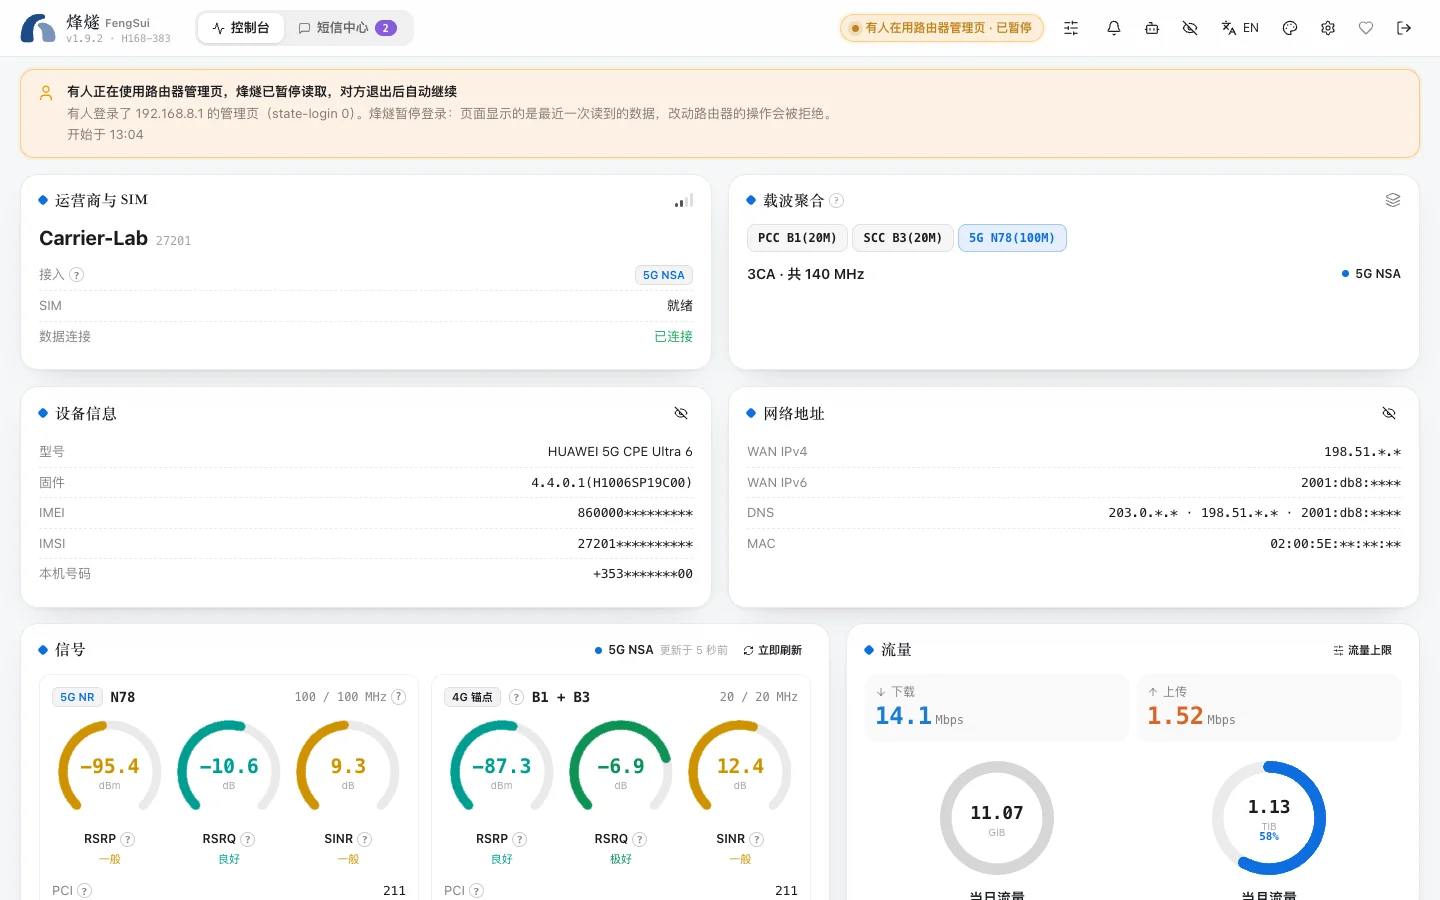
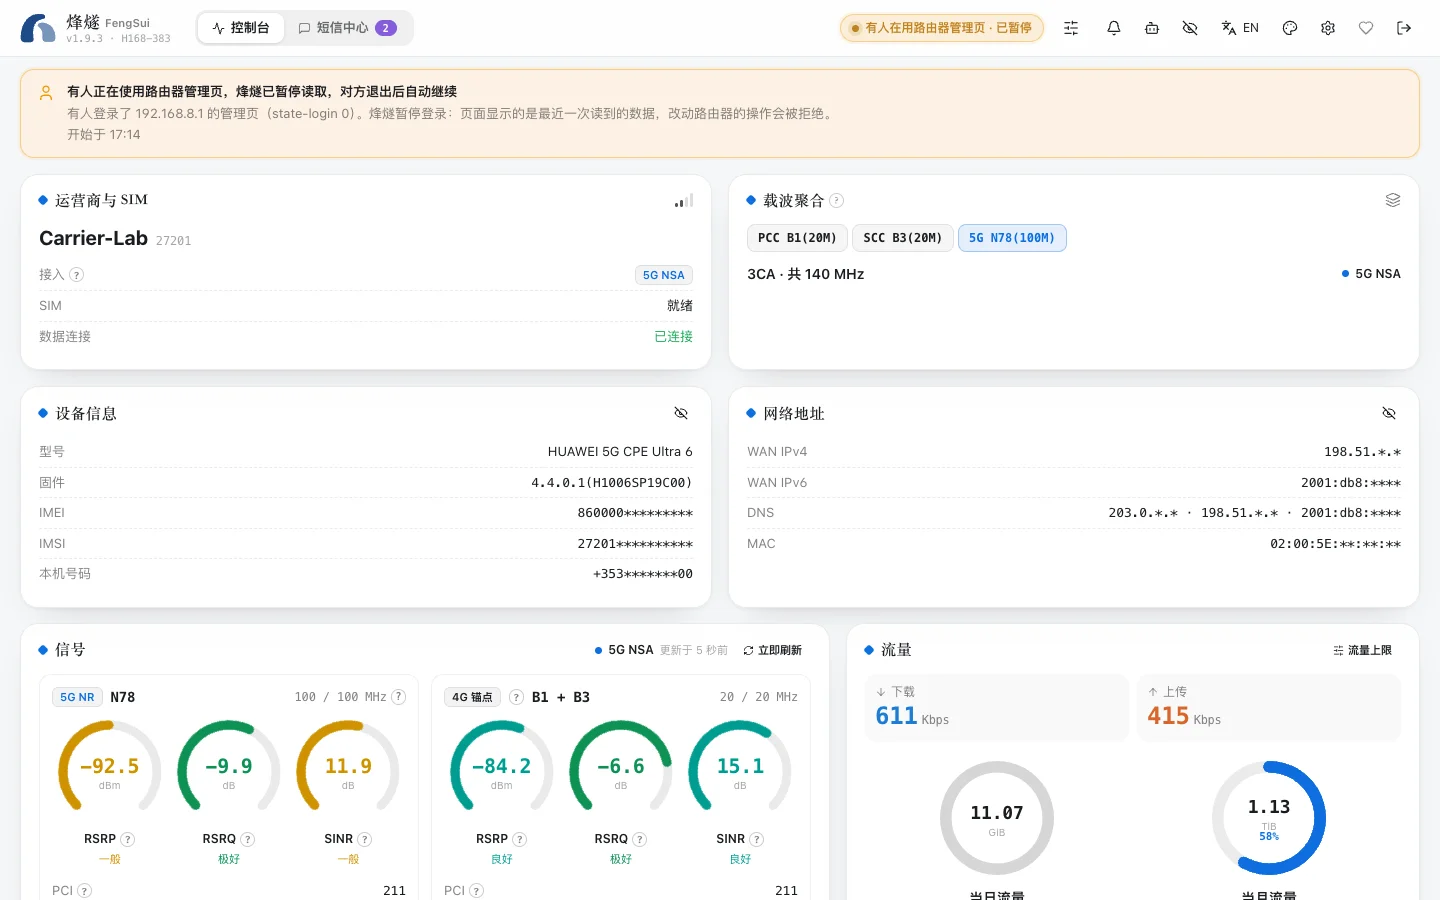
release: v1.9.3

diff --git a/src/version.ts b/src/version.ts
@@ -1,2 +1,2 @@
 /** Release version reported by `GET /api/health` and the web dashboard; kept equal to package.json. */
-export const FENGSUI_VERSION = "1.9.2";
+export const FENGSUI_VERSION = "1.9.3";

diff --git a/CHANGELOG.md b/CHANGELOG.md
@@ -4,11 +4,16 @@ All notable changes to 烽燧 FengSui (`cpe-dash`). Versions follow [Semantic Ve
 
 ## [Unreleased]
 
+## [1.9.3] — 2026-11-17
+
 ### Highlights
 - **The H168-383's cellular settings are in the controls drawer.** Data roaming, the network mode, operator search and manual selection, and clearing the router's traffic counters, the four checked in person on a real H168-383, now have their place in the console's controls drawer, as they had over REST, MCP and Telegram since 1.9.0.
 
 ### Fixed
 - **The controls drawer showed the H168-383 no cellular settings.** 1.9.0 opened four cellular settings on the H168-383: data roaming, the network mode, operator search and manual selection, and clearing the traffic counters. They worked over REST, MCP and Telegram's `/netmode`, but the drawer drew its cellular settings only for models nobody verified, so on the H168-383 it had none. It now shows these four there, each with its own confirmation as on any other router. USSD stays out: the H168-383 reports it switched off, and FengSui sends it nothing.
+
+### Upgrading
+- Nothing to change in `.env` or `docker-compose.yml`. On an H168-383 the requests FengSui sends are those of 1.9.2; opening the controls drawer now also reads the cellular settings there, with the requests 1.9.0 added for them.
 
 ## [1.9.2] — 2026-11-17
 

diff --git a/docs/dev/api.md b/docs/dev/api.md
@@ -162,7 +162,7 @@ export interface ApiErrorEnvelope {
 类型定义以源码为准：[`HealthResponse`](../../src/api-contract.ts)。下面是这些类型原先在本文里的字段说明（原注释，逐条保留）：
 
 - **`HealthResponse`**
-  - `version`：当前为 "1.9.2"
+  - `version`：当前为 "1.9.3"
 
 #### `POST /api/setup/login`（免鉴权，仅限尚无控制台密码时）与 `POST /api/auth/reset`（免鉴权，重置码）
 ```ts
